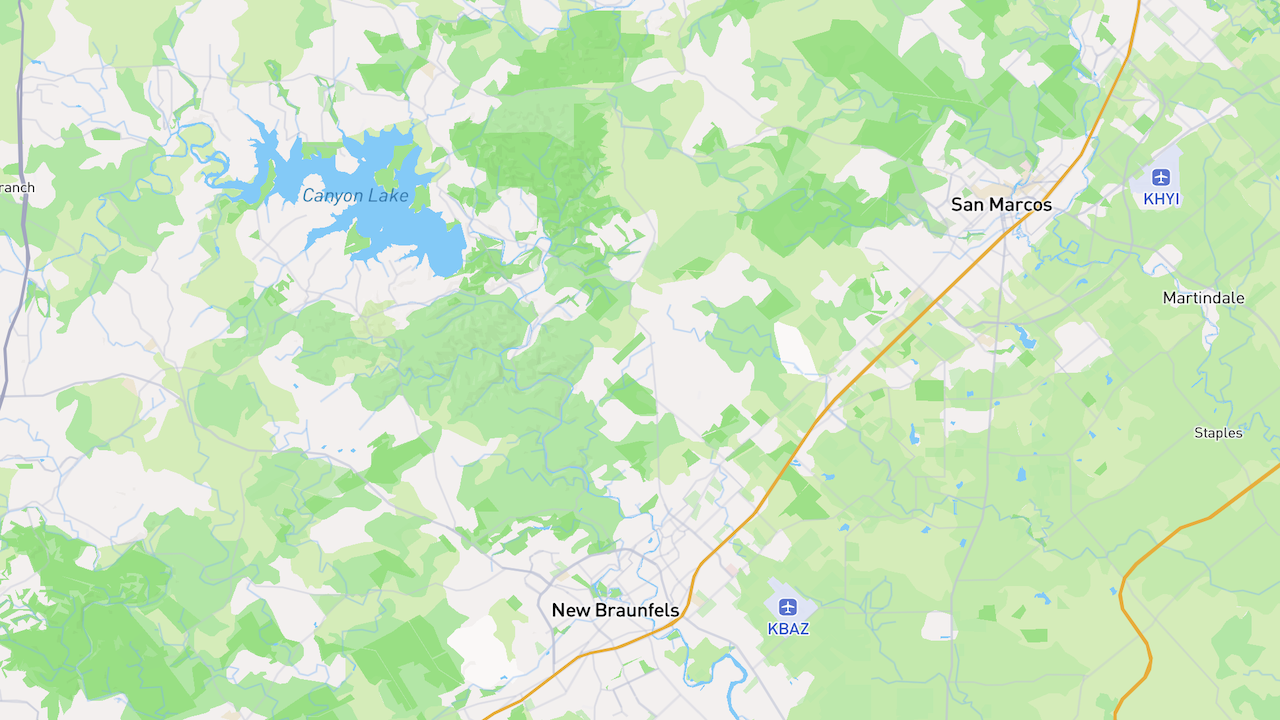
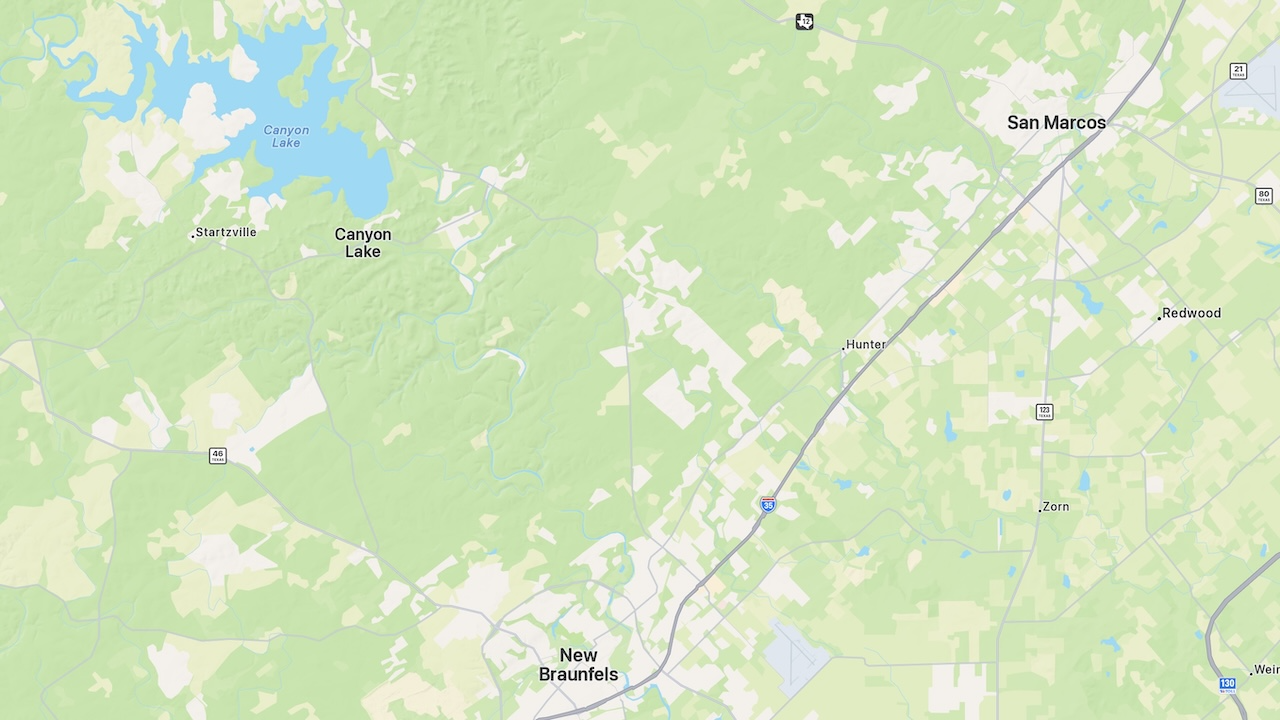
Add files via upload

diff --git a/display.py b/display.py
@@ -26,7 +26,7 @@ FULLSCREEN = False
 FPS = 20
 
 # API / Tracking
-TAIL_NUMBER = "N8756S"
+TAIL_NUMBER = "N841AK"
 POLL_SECONDS = 10
 AIRPLANES_LIVE_URL = "https://api.airplanes.live/v2/reg/{tail}"
 REQUEST_TIMEOUT_SECONDS = 2.0
@@ -38,10 +38,10 @@ TRAIL_COLOR = (65, 65, 65, 110)
 TRAIL_MIN_PIXEL_STEP = 2
 
 # Map Bounds
-MAP_MAX_LAT = 29.96944
-MAP_MIN_LAT = 29.65627
-MAP_MIN_LON = -98.42326
-MAP_MAX_LON = -97.80553
+MAP_MAX_LAT = 29.92060
+MAP_MIN_LAT = 29.68267
+MAP_MIN_LON = -98.34542
+MAP_MAX_LON = -97.86065
 
 # Aircraft Marker
 HELICOPTER_RADIUS = 8
@@ -100,6 +100,12 @@ POIS = [
         "color": (173,4,246),
         "lat": 29.79023,
         "lon": -98.15426,
+    },
+    {
+        "name": "Test",
+        "color": (50,58,58),
+        "lat": 29.74102,
+        "lon": -98.09320,
     },
 ]
 